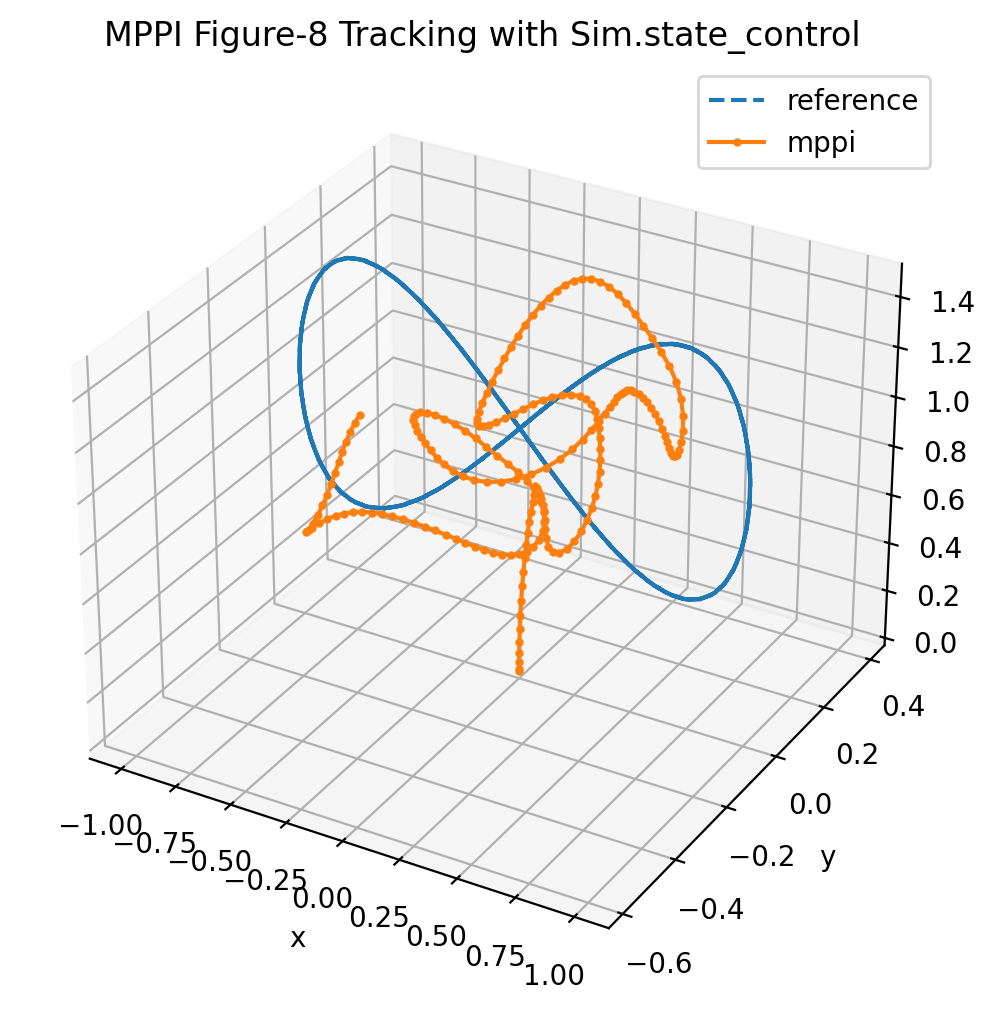
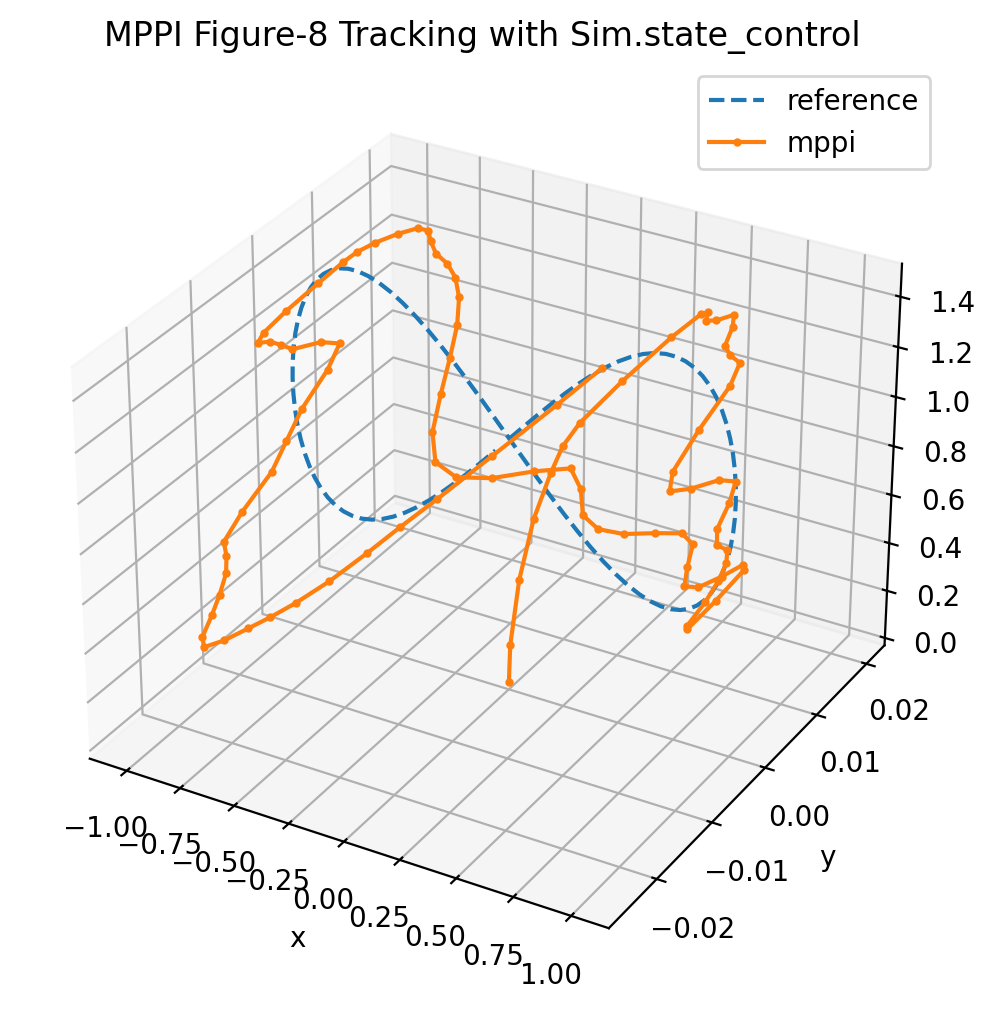
MPPI_fig8 funktioniert + video record

diff --git a/examples/mppi_figure_8.py b/examples/mppi_figure_8.py
@@ -3,27 +3,46 @@ import jax.numpy as jnp
 import numpy as np
 import matplotlib.pyplot as plt
 from pathlib import Path
+from PIL import Image
 
 from crazyflow.control.control import Control
 from crazyflow.sim import Sim
 from crazyflow.sim.physics import Physics
+from crazyflow.sim.visualize import draw_line, draw_points
 from crazyflow.utils import enable_cache
 
 from submodules.Controllers_mppi import mppi_controller as mppi
 
 
 DT = 0.1
-HORIZON = 20
+HORIZON = 30
+TRAJECTORY_TIME = 10.0  #sekunden um fig 8 zu matchen 
+OMEGA = 2 * jnp.pi / TRAJECTORY_TIME  # angular frequency dass eine runde TRAJECTORY_TIME dauert
+
+RECORD_VIDEO = True   # Set to False for live interactive window instead
+VIDEO_WIDTH = 1280
+VIDEO_HEIGHT = 720
+# Figure-8 is in the XZ plane (y=0), centered at [0,0,1].
+# azimuth=90 looks from +Y so the full 8 shape is visible face-on.
+CAM_CONFIG = {
+    "lookat": np.array([0.0, 0.0, 1.0]),
+    "distance": 2.0,
+    "azimuth": 90.0,
+    "elevation": -15.0,
+}
 
 
 def figure8_reference(t: float):
-    px = jnp.sin(t)
+   
+    phase = OMEGA * t
+    px = jnp.sin(phase)
     py = 0.0
-    pz = 0.5 * jnp.sin(2.0 * t) + 1.0
+    pz = 0.5 * jnp.sin(2.0 * phase) + 1.0
 
-    vx = jnp.cos(t)
+    # vel
+    vx = OMEGA * jnp.cos(phase)
     vy = 0.0
-    vz = jnp.cos(2.0 * t)
+    vz = OMEGA * jnp.cos(2.0 * phase)
 
     pos_ref = jnp.array([px, py, pz])
     vel_ref = jnp.array([vx, vy, vz])
@@ -94,12 +113,12 @@ def build_mppi():
     config, state = mppi.create(
         nx=6,
         nu=6,
-        noise_sigma=jnp.eye(6) * 0.05,
-        num_samples=800,
+        num_samples=1500,
         horizon=HORIZON,
         lambda_=1.0,
-        u_min=jnp.array([-0.05, -0.05, -0.05, -0.1, -0.1, -0.1]),
-        u_max=jnp.array([0.05, 0.05, 0.05, 0.1, 0.1, 0.1]),
+        noise_sigma=jnp.eye(6) * 0.02,
+        u_min=jnp.array([-0.02, -0.02, -0.02, -0.05, -0.05, -0.05]),
+        u_max=jnp.array([ 0.02,  0.02,  0.02,  0.05,  0.05,  0.05]),
         step_dependent_dynamics=True,
     )
     return config, state
@@ -148,12 +167,19 @@ def main():
     config, mppi_state = build_mppi()
     print("MPPI created")
 
+    # Precompute the full figure-8 reference trajectory for visualization (200 points = 1 lap)
+    ref_t = np.linspace(0, TRAJECTORY_TIME, 200)
+    full_ref_traj = np.array([np.array(figure8_reference(t)[0]) for t in ref_t])
+
     states = []
     cmds = []
     ref_positions = []
+    frames = []
+
+    render_mode = "rgb_array" if RECORD_VIDEO else "human"
 
     print("Before first step")
-    for k in range(200):
+    for k in range(100):
         current_obs = get_mppi_state_from_sim(sim)
 
         running_cost_k = make_running_cost(k)
@@ -170,14 +196,28 @@ def main():
 
         state_cmd = build_state_command(k, action)
 
-        # shape: (n_worlds, n_drones, 13)
+        # (n_worlds, n_drones, 13)
         sim.state_control(state_cmd[None, None, :])
 
         # mehrere Substeps pro MPC-Schritt
-        sim.step(n_steps=10)
+        sim.step(n_steps=50)  # 50 substeps at 500 Hz = 0.1s = DT
 
         try:
-            sim.render()
+            # Full reference trajectory in gray
+            draw_line(sim, full_ref_traj, rgba=np.array([0.6, 0.6, 0.6, 0.8]))
+            # MPPI planned nominal rollout in green: roll out mppi_state.U from current state
+            rollout_state = current_obs
+            rollout_pts = [np.array(current_obs[:3])]
+            for t, u in enumerate(mppi_state.U):
+                rollout_state = dynamics(rollout_state, u, t)
+                rollout_pts.append(np.array(rollout_state[:3]))
+            draw_line(sim, np.array(rollout_pts), rgba=np.array([0.0, 1.0, 0.0, 1.0]))
+            # Current reference target as a red sphere
+            #current_ref = np.array(figure8_reference(k * DT)[0])[None, :]
+            #draw_points(sim, current_ref, rgba=np.array([1.0, 0.0, 0.0, 1.0]), size=0.05)
+            frame = sim.render(mode=render_mode, width=VIDEO_WIDTH, height=VIDEO_HEIGHT, cam_config=CAM_CONFIG)
+            if RECORD_VIDEO and frame is not None:
+                frames.append(frame)
         except Exception:
             pass
 
@@ -199,6 +239,18 @@ def main():
     print(states[-5:, :3])
 
     Path("figures").mkdir(parents=True, exist_ok=True)
+
+    if RECORD_VIDEO and frames:
+        gif_path = "figures/mppi_figure8.gif"
+        pil_frames = [Image.fromarray(f) for f in frames]
+        pil_frames[0].save(
+            gif_path,
+            save_all=True,
+            append_images=pil_frames[1:],
+            duration=int(DT * 1000),  # ms per frame → real-time playback
+            loop=0,
+        )
+        print(f"Video saved to {gif_path}")
 
     trajectory = np.column_stack([
         np.arange(states.shape[0]) * DT,

diff --git a/submodules/Controllers_mppi/mppi_runner.py b/submodules/Controllers_mppi/mppi_runner.py
@@ -1,0 +1,38 @@
+import jax
+import jax.numpy as jnp
+from jax_mppi import mppi
+
+# Define dynamics and cost functions
+def dynamics(state, action):
+    # Your dynamics model here
+    return state + action
+
+def running_cost(state, action):
+    # Your cost function here
+    return jnp.sum(state**2) + jnp.sum(action**2)
+
+# Create configuration and initial state
+config, mppi_state = mppi.create(
+    nx=4, nu=2,
+    noise_sigma=jnp.eye(2) * 0.1,
+    horizon=20,
+    lambda_=1.0
+)
+
+# Control loop
+key = jax.random.PRNGKey(0)
+current_obs = jnp.zeros(4)
+
+# JIT compile the command function for performance
+jitted_command = jax.jit(mppi.command, static_argnames=['dynamics', 'running_cost'])
+
+for _ in range(100):
+    key, subkey = jax.random.split(key)
+    action, mppi_state = jitted_command(
+        config,
+        mppi_state,
+        current_obs,
+        dynamics=dynamics,
+        running_cost=running_cost
+    )
+    # Apply action to environment...
